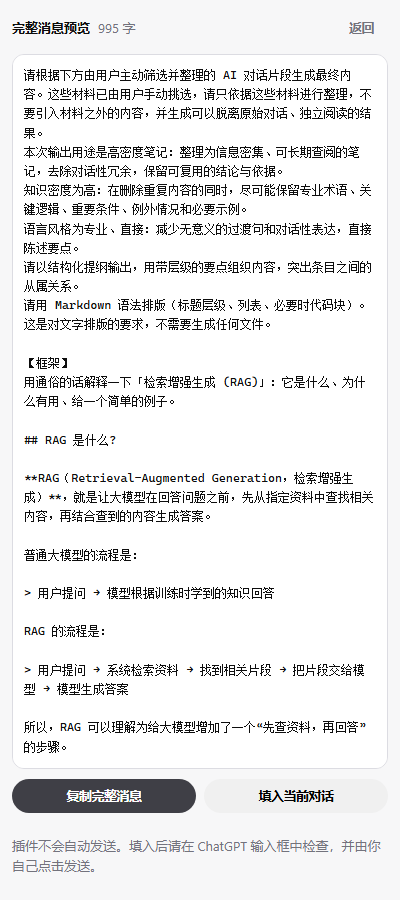
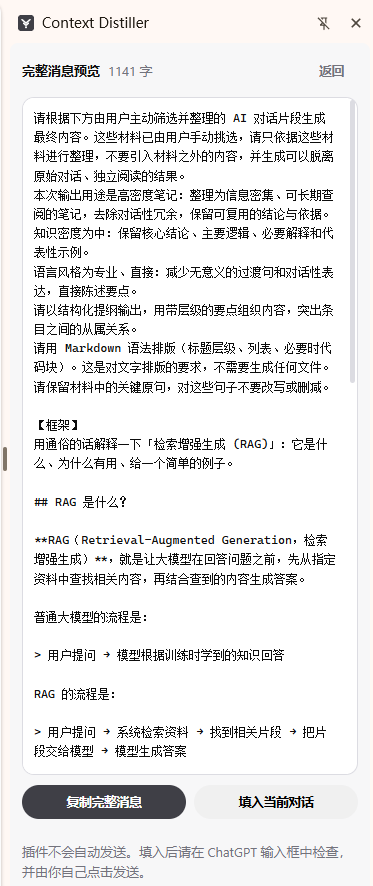
docs(readme): swap in the maintainer's own real screenshots
Three fresh, real captures replace the earlier ones:
- messages.png: hero — real ChatGPT conversation + docked panel, now showing
  the panel fully; cropped to drop the top artifact and the ChatGPT left rail.
- workspace.png: the full preset palette (purpose / density / style /
  structure / format + extras), padded to match preview's height so the two
  small images line up.
- preview.png: the compiled full prompt.

Captions updated to match (the second image is now the preset palette).

Changed region(s): [[0.0295, 0.0, 0.9732, 1.0], [0.0, 0.4876, 0.0295, 0.5485]]

diff --git a/README.en.md b/README.en.md
@@ -28,13 +28,13 @@ Before you hand material to the AI, it hands the **choice of what, the way it's 
 
 <br /><br />
 
-<img src="docs/screenshots/workspace.png" width="212" alt="Module board and preset Prompts" />
+<img src="docs/screenshots/workspace.png" width="212" alt="All preset Prompts at a glance: purpose / density / style / structure / format + extras" />
 &nbsp;&nbsp;
 <img src="docs/screenshots/preview.png" width="212" alt="Preview of the deterministically compiled full prompt" />
 
 <br />
 
-<sub>Module board + preset Prompts&nbsp;&nbsp;·&nbsp;&nbsp;preview of the deterministically compiled prompt (the compiled output keeps the original Markdown)</sub>
+<sub>All preset Prompts at a glance (purpose / density / style / structure / format + extras)&nbsp;&nbsp;·&nbsp;&nbsp;preview of the deterministically compiled prompt (keeps the original Markdown)</sub>
 
 </div>
 

diff --git a/README.md b/README.md
@@ -28,13 +28,13 @@
 
 <br /><br />
 
-<img src="docs/screenshots/workspace.png" width="212" alt="模块编组与预设 Prompt" />
+<img src="docs/screenshots/workspace.png" width="212" alt="预设 Prompt 全景：用途 / 密度 / 文风 / 结构 / 格式 + 附加要求" />
 &nbsp;&nbsp;
 <img src="docs/screenshots/preview.png" width="212" alt="预览「确定性编译」出的完整提示词" />
 
 <br />
 
-<sub>模块编组 + 预设 Prompt&nbsp;&nbsp;·&nbsp;&nbsp;预览确定性编译出的完整提示词（编译输出保留原始 Markdown）</sub>
+<sub>全部预设一览（用途 / 密度 / 文风 / 结构 / 格式 + 附加要求）&nbsp;&nbsp;·&nbsp;&nbsp;预览确定性编译出的完整提示词（保留原始 Markdown）</sub>
 
 </div>
 
